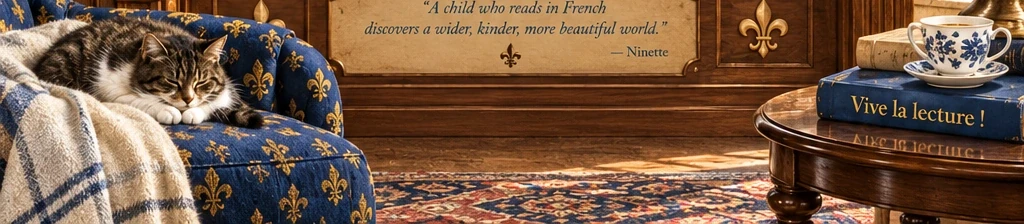
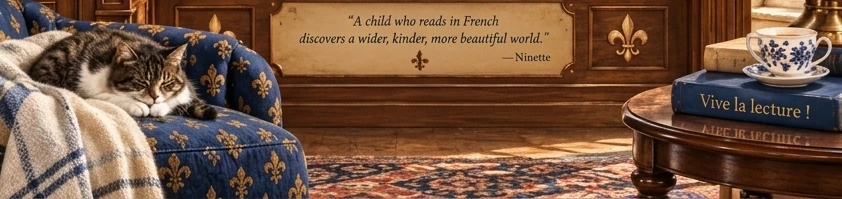
Book Club: regenerate all 5 decor bands from clean bc-background.jpeg
Re-slice the 5 full-width bands (banner / top / cornice / shelf-band / bottom)
from the new clean source images/bc-background.jpeg (842x1264) instead of the
old baked scene. The new plate has NO painted tabs, NO painted counter and
EMPTY wooden shelves, so:
- No inpainting/erasing needed anymore — real tabs and the real dynamic counter
  simply overlay the blank stone-wall strip and the blank top of the parchment
  panel; medals + 'Good Books' plaque + window stay painted and continuous.
- Recalibrated overlay insets to the new proportions: tabs (14.3/13.3, top0.8 h15.7),
  counter (15.4/15.1, top20.9 h19.4), shelf opening (18.4/19.2/2.2/4.7).
- Removed the solid #37220f shelf back: the real covers now sit on the real empty
  wooden shelves (cleaner, the whole point of the new source).
Counter still dynamic (37/9/0), everything verified via composite + DOM.

diff --git a/index.html b/index.html
@@ -1096,10 +1096,10 @@
 
             .bc-tabs {
                 position: absolute;
-                left: 13.7%;
-                right: 4.3%;
-                top: 2.8%;
-                height: 23.6%;
+                left: 14.3%;
+                right: 13.3%;
+                top: 0.8%;
+                height: 15.7%;
                 display: grid;
                 grid-template-columns: repeat(5,minmax(0,1fr));
                 gap: .7%;
@@ -1136,10 +1136,10 @@
 
             .bc-counter {
                 position: absolute;
-                left: 14.6%;
-                right: 14.1%;
-                top: 26.7%;
-                height: 22.8%;
+                left: 15.4%;
+                right: 15.1%;
+                top: 20.9%;
+                height: 19.4%;
                 display: flex;
                 flex-direction: column;
                 justify-content: center;
@@ -1190,11 +1190,10 @@
 
             .bc-shelf {
                 position: absolute;
-                left: 19%;
-                right: 17%;
-                top: 5%;
-                bottom: 11%;
-                background: #37220f;
+                left: 18.4%;
+                right: 19.2%;
+                top: 2.2%;
+                bottom: 4.7%;
                 display: flex;
                 flex-wrap: nowrap;
                 align-items: flex-end;
@@ -1216,7 +1215,7 @@
 
             .bc-book {
                 flex: 0 0 auto;
-                height: 100%;
+                height: 80%;
                 margin: 0;
                 display: flex;
                 align-items: flex-end;
